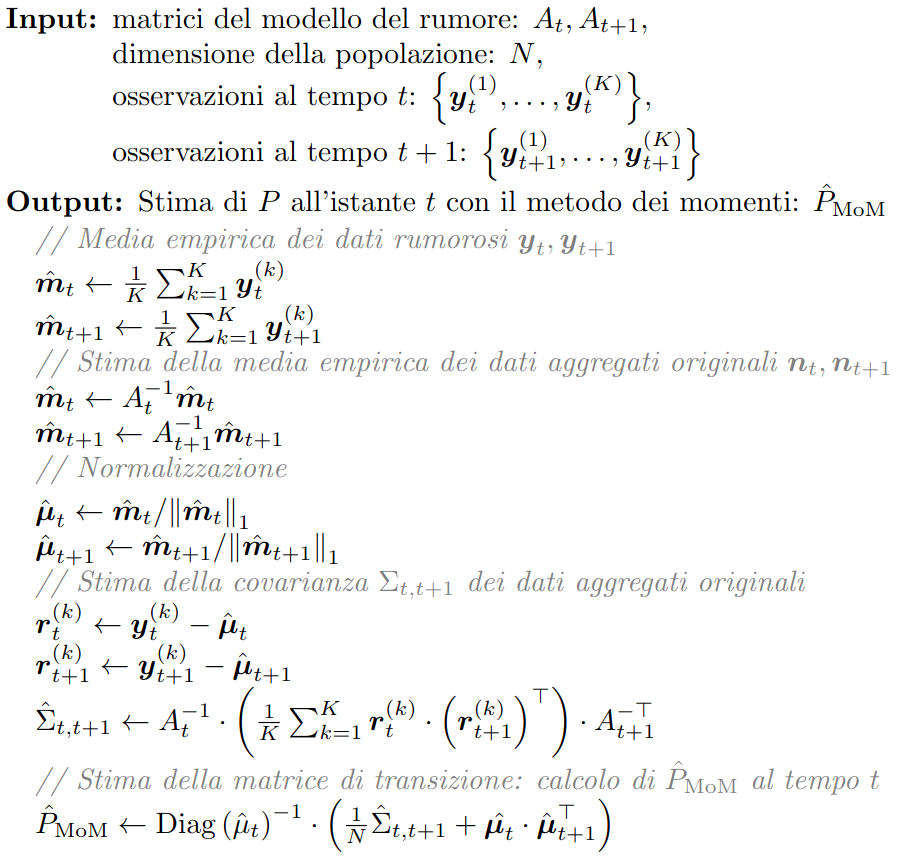
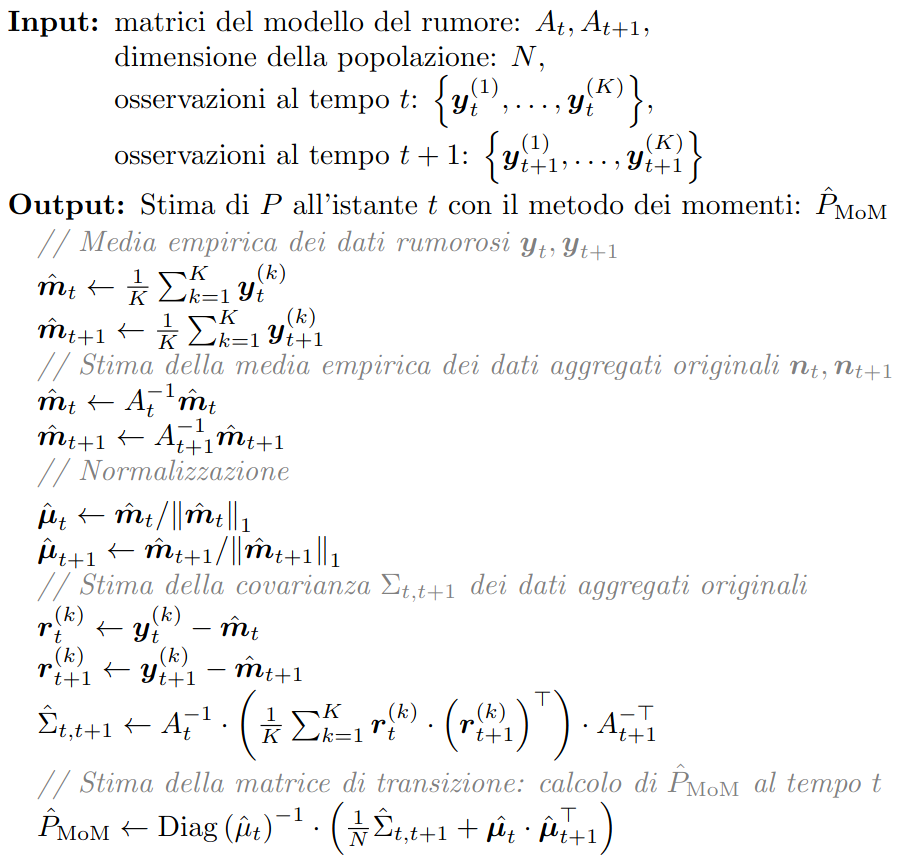
Non si smette mai di sbagliare (corretto pseudocodice algoritmo)

Changed region(s): [[0.0, 0.0, 0.9846, 0.9977]]

diff --git a/Codice/tests/P_mom_test.py b/Codice/tests/P_mom_test.py
@@ -32,7 +32,7 @@ K = 20
 N = 100
 
 # Change here to change the variance
-variance = 0
+variance = 1
 
 n_t_array, y_t_array, A = create_observations(T=T, K=K, N=N, 
 											  pi_0=pi, stationary=True,
@@ -67,7 +67,8 @@ m_t_hat = np.linalg.solve(A,m_t_hat)
 mu_hat = np.linalg.solve(A,pi)
 mu_hat = mu_hat/np.linalg.norm(mu_hat,1)	# pleonastic
 
-deviations = y_t_array - N*mu_hat #change to mu_hat?
+deviations = y_t_array - N*mu_hat
+deviations = y_t_array - m_t_hat 
 
 Sigma_hat = np.matmul(deviations[:-1].transpose(0,2,1),deviations[1:]).mean(axis=0)/K
 Sigma_hat = np.linalg.solve(A,Sigma_hat)
